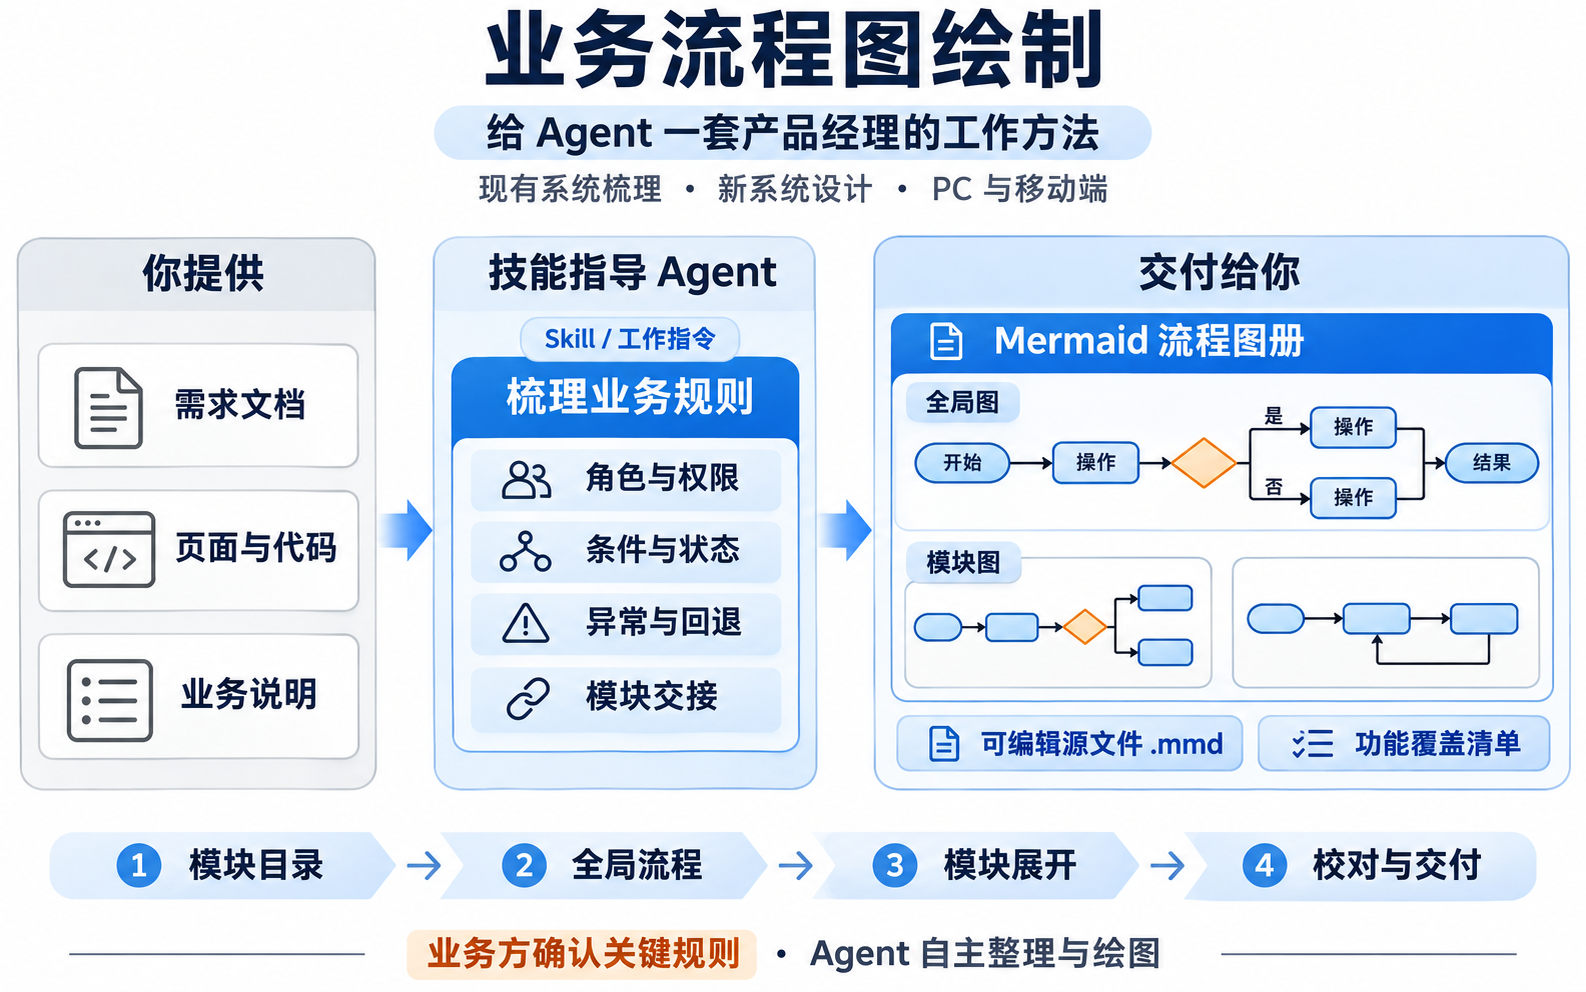
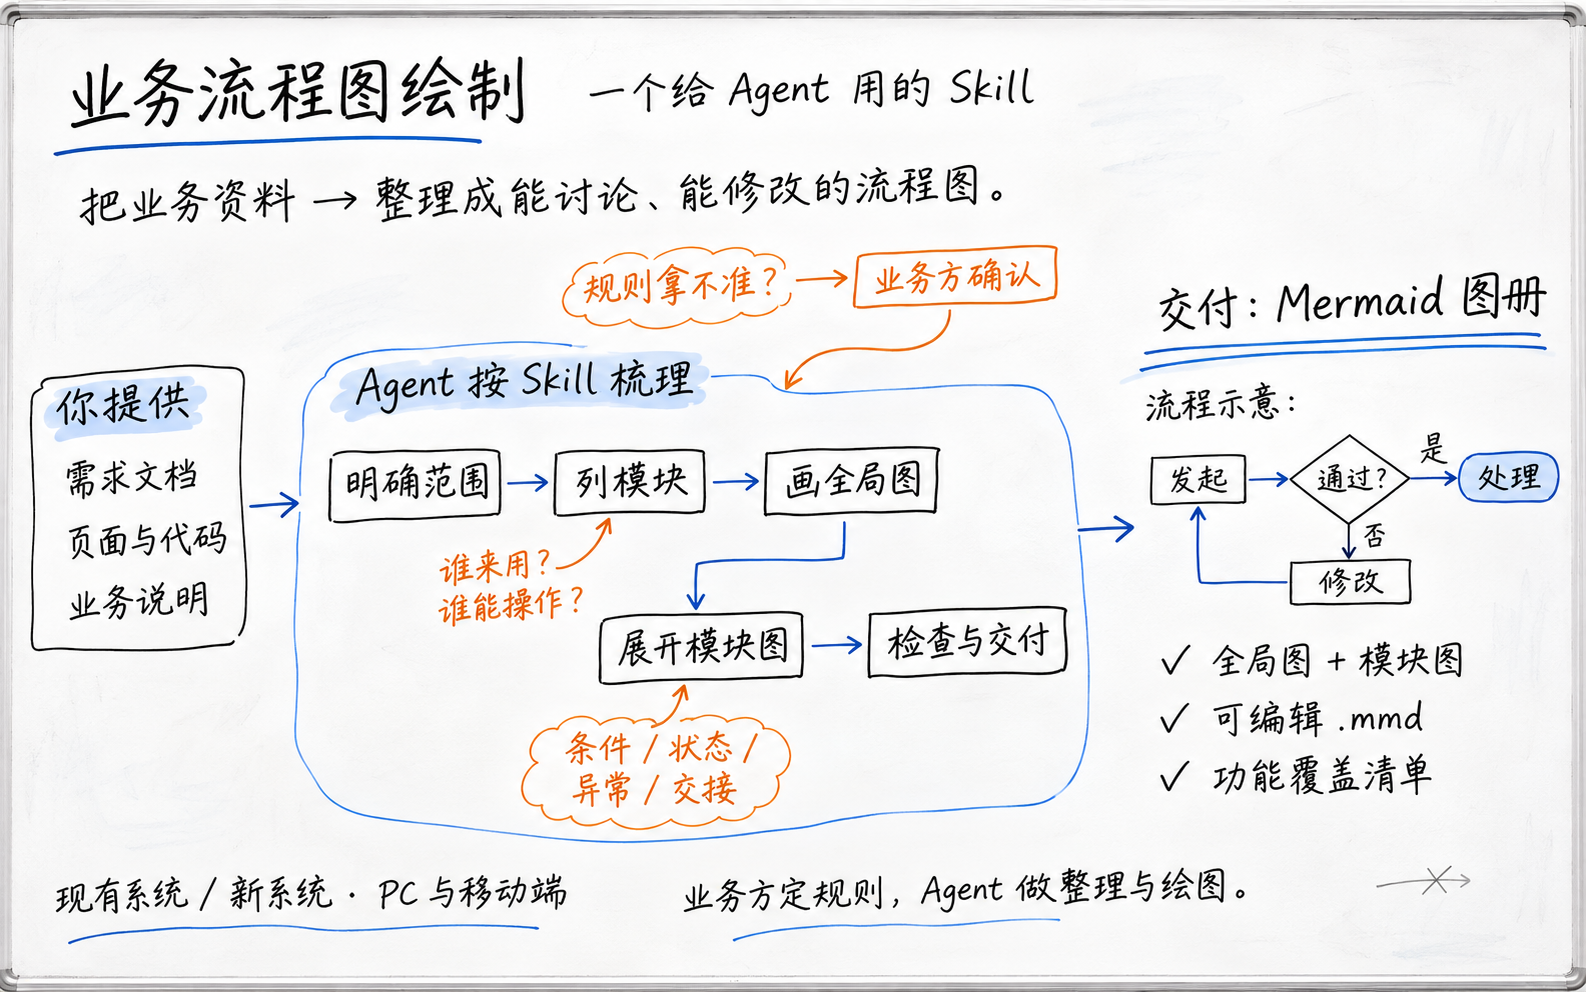
docs: add English README and bilingual whiteboard illustrations

diff --git a/README.en.md b/README.en.md
@@ -1,0 +1,211 @@
+# Business Process Diagrams
+
+[简体中文](README.md) | English
+
+> The Skill instructions and diagramming standards are currently written in Chinese.
+
+**Business Process Diagramming**
+
+[View the skill](skills/business-process-diagrams/SKILL.md) · [Diagramming standards](skills/business-process-diagrams/references/mermaid-standard.md)
+
+![Business process diagramming skill: an Agent turns business materials into Mermaid overview and module diagrams, editable source files, and a feature coverage checklist](skill-overview-en.png)
+
+*Illustration of how the skill works, AI-generated.*
+
+This skill guides an Agent to organize business explanations, requirements, and system materials into a Mermaid diagram set from a product manager's perspective.
+
+It first identifies the business modules, draws an end-to-end overview, and then expands each module into a complete flow. The diagrams make clear who handles each step, how the system evaluates conditions, how states change, and who receives work when something goes wrong.
+
+Use it to map PC and mobile business processes or design a new system.
+
+## Why this skill exists
+
+Business reviews often raise practical questions: Who provisions a resource after approval? Which permissions should be removed when an employee leaves a project? Who handles the part of an operation that only partly succeeded?
+
+These questions affect product requirements, permissions, and acceptance. Mapping the flow helps teams discuss them early and trace the process to find gaps.
+
+This Skill turns that way of working into reusable instructions. The Agent reads the materials, organizes the diagram set, draws and checks the diagrams. Business stakeholders decide rules that the materials have not established.
+
+## Suitable use cases
+
+| Scenario | How the skill helps |
+| --- | --- |
+| Mapping an existing system | Reconstructs features, rules, and operating boundaries from accessible pages, hands-on use, code, documents, and business explanations |
+| Designing a new system from scratch | Discusses options around target users, scenarios, roles, and the current phase's scope, then develops the target flow step by step |
+| Adding features to an existing system | Distinguishes existing flows from new designs and checks which modules and handoffs the new feature affects |
+| PRD review and business handoff | Checks permissions, decisions, states, exceptions, and upstream or downstream outcomes against the module and subfeature list |
+| PC and mobile collaboration | Describes each platform's entry points, responsibilities, and outcomes where evidence supports them |
+
+If the materials cover only the PC experience, mobile capabilities remain marked for confirmation. Demonstration pages, disconnected features, and implemented features are identified separately.
+
+## Deliverables
+
+A diagram set typically includes:
+
+- A module directory and feature coverage checklist.
+- One end-to-end business flow showing the main path and cross-module handoffs.
+- One complete flow for each business module, grouped by its internal functional areas.
+- Editable `.mmd` source files and diagram-set navigation.
+- A Mermaid Chart entry point when cloud storage is available.
+- Items awaiting a business decision, supporting evidence, or technical verification.
+
+The number of diagrams depends on the business scope. Independent features within a module branch from a choice point and keep their own entry and outcome. Approval, maintenance, and search tasks are not incorrectly drawn as steps that everyone must perform in sequence.
+
+## How it works
+
+Business materials → Confirm task type and scope → Module directory → Overview flow → Module flows → Check each diagram → Save and read back
+
+When mapping an existing system, the Agent records the evidence behind each finding and keeps current facts separate from improvement suggestions. For a new system, undecided rules are clearly marked, and discussion outcomes are reflected in affected diagrams and the coverage checklist.
+
+Each round focuses on a small number of decisions that could change the flow. Information already provided carries forward; the Agent handles routine organization and diagramming independently.
+
+## A simple example
+
+The following fictional purchasing scenario illustrates the diagramming style. Its rules do not apply to other projects.
+
+Materials provided: An employee enters the purpose and purchase details; a department manager reviews the request; finance also reviews requests above CNY 5,000; a return requires a reason; approved requests go to procurement for processing. The materials do not say whether the approval path must be recalculated after a returned request is resubmitted.
+
+A module flow can be expressed like this:
+
+```mermaid
+---
+config:
+  layout: elk
+  theme: default
+  flowchart:
+    curve: basis
+    nodeSpacing: 50
+    rankSpacing: 70
+---
+flowchart TB
+  subgraph submit[Submission and validation]
+    A([Employee starts a purchase request]) --> B[Enter purpose and purchase details<br/>Item, quantity, estimated unit price incl. tax]
+    B --> C{Are required fields and line items valid?}
+    C -->|No| D[Show specific issues<br/>Employee edits and validates again]
+    D --> B
+    C -->|Yes| E[System calculates estimated total<br/>Sum of quantity × estimated unit price]
+  end
+
+  subgraph approve[Review and handoff]
+    E --> F{Does the department manager approve?}
+    F -->|Return| G[Enter reason for return<br/>Send back to requester for changes]
+    F -->|Approve| H{Is the estimated total above CNY 5,000?}
+    H -->|No, including exactly CNY 5,000| I([Approved<br/>Procurement receives and processes the request])
+    H -->|Yes| J{Does finance approve?}
+    J -->|Approve| I
+    J -->|Return| G
+    G --> K([Resubmission rule to confirm<br/>Decide whether to recalculate the approval path using the revised amount])
+  end
+
+  subgraph legend[Legend]
+    L1[Blue: system processing and key states]
+    L2[Orange: constraints or rules to confirm]
+  end
+
+  classDef system fill:#dbeafe,stroke:#2563eb,color:#172554;
+  classDef pending fill:#ffedd5,stroke:#f97316,color:#7c2d12;
+  class E,I,L1 system;
+  class K,L2 pending;
+```
+
+This example preserves the amount threshold, return reason, receiving role, and undecided resubmission rule. A real diagram set uses the full materials to add relevant permissions, fields, states, exceptions, and other applicable branches.
+
+The example illustrates the notation. Check the actual display environment to confirm support for ELK and other renderer settings.
+
+## Quick start
+
+Use an Agent that can read local Skills. Access tools and permissions are also needed when working with pages or code. Saving to Mermaid Chart requires a connected Mermaid MCP and write access to the destination.
+
+Import the complete `skills/business-process-diagrams/` folder from this repository, including `SKILL.md`, `references/`, and the accompanying Agent configuration. Follow your Agent's instructions for loading, triggering, and reloading Skills.
+
+You can also send the following request to an Agent that can read GitHub repositories:
+
+```text
+Please install this Skill:
+https://github.com/nicoleyang959/business-process-diagrams/tree/main/skills/business-process-diagrams
+
+First check the Skill contents and how the current Agent loads Skills. Preserve the full Skill directory.
+If a Skill with the same name already exists, review the differences and preserve my changes.
+After installation, report what you actually checked and whether the Skill needs to be reloaded.
+```
+
+The user specifies the cloud save location. For the first diagramming task, provide the organization, project, and folder; the Agent will reuse the location confirmed in the current conversation.
+
+### Map an existing system
+
+```text
+Use business-process-diagrams to map this existing system.
+
+Project: Equipment Lending Management.
+Scope: Requests, reviews, check-out, returns, and exception handling across PC and mobile.
+Materials: The attached requirements, plus the pages and code I can make available.
+
+First create the module directory, then draw the overview and complete flows for each module.
+Label what is implemented, demonstrated, disconnected, or still unverified. Keep improvement suggestions separate.
+Ask only questions that could change the flow; handle routine analysis and diagramming independently.
+```
+
+### Design a new system
+
+```text
+Use business-process-diagrams to help me design a new equipment lending system.
+
+Goal: Employees can request equipment; administrators can check inventory, issue equipment, and track returns.
+Users: Employees, department managers, and equipment administrators.
+Current phase: Lending and returns; discuss other business areas later.
+
+Use the materials I provide to establish the module directory and key rules, then draw the overview and module flows.
+Ask only about decisions I need to make. Mark rules without supporting evidence as to be confirmed.
+```
+
+### Save or update a cloud diagram set
+
+Add the following to the diagramming request:
+
+```text
+Use Mermaid MCP to save the diagrams to the organization and project I specify, all in a folder named "Equipment Lending Business Flows".
+Update existing diagrams in place and retain their links.
+Deliver the diagram directory, editable source files, and feature coverage checklist, and report the verification result for each diagram.
+```
+
+If you need only local source files for this task, say so directly.
+
+## What the diagrams check
+
+The checks depend on the business materials. Common areas include:
+
+| Check area | What the diagram should make clear |
+| --- | --- |
+| Roles and permissions | Who can view or act, which fields they can see, and what data is in scope |
+| Inputs and rules | What users enter, how validation and calculations work, and where condition thresholds lie |
+| State changes | The states before and after an operation, and the conditions for each transition |
+| Exceptions and recovery | What happens after failures, returns, withdrawals, duplicate submissions, concurrent conflicts, or partial success |
+| Cross-module handoffs | What is handed off, when it happens, who receives it, and what outcome follows |
+| Saving and versions | Whether saving succeeded and how changes affect versions, in-flight work, and history |
+
+Mechanisms absent from the materials are marked as to be confirmed or not applicable based on the evidence. The skill does not add features just to fill out a checklist.
+
+## Diagramming and verification
+
+The default is `flowchart TB`, ELK layout, the `default` theme, `basis` curves, node spacing of 50, and rank spacing of 70. Use `subgraph` to group functional areas; rectangles for actions, diamonds for decisions, and rounded shapes for starts, ends, and key states.
+
+Blue indicates system processing or key states; orange indicates constraints or rules to confirm; gray indicates demonstrations, incomplete flows, or later phases. Each diagram includes a legend and text explaining how its colors are used.
+
+Record each of these results separately:
+
+| Verification area | Evidence |
+| --- | --- |
+| Business coverage and flow design | Source materials, module directory, feature coverage checklist, and branch-by-branch review |
+| Mermaid syntax and actual rendering | Parser results and the nodes, text, and connections actually rendered |
+| Cloud save result | Read-back of the content, title, project, and folder location |
+| Navigation | The destination reached by clicking; if unverified, provide a directory link and mark it accordingly |
+
+Diagrams describe an evidence-based current state or target design. Whether an online operation actually works requires evidence from performing and reading back that operation in the real system. A successful save, a diagram that renders correctly, and a completed business operation are recorded as separate outcomes.
+
+## Scope
+
+This release provides Skill instructions and Mermaid diagramming standards. Page design, software development, and deployment are separate tasks.
+
+Available features and costs for Agents, Mermaid Chart, and MCP depend on the environment and account. If access to pages, cloud operations, or rendering is unavailable, the delivery will state which verification items are affected.
+
+Before saving business flows to the cloud, confirm that the content may be stored in the target organization. Use fictional or anonymized examples for public sharing; handle real business materials and access credentials according to the applicable permissions.

diff --git a/README.md b/README.md
@@ -1,5 +1,7 @@
 # Business Process Diagrams
 
+**简体中文** | [English](README.en.md)
+
 **业务流程图绘制**
 
 [查看 Skill](skills/business-process-diagrams/SKILL.md) · [制图规范](skills/business-process-diagrams/references/mermaid-standard.md)
